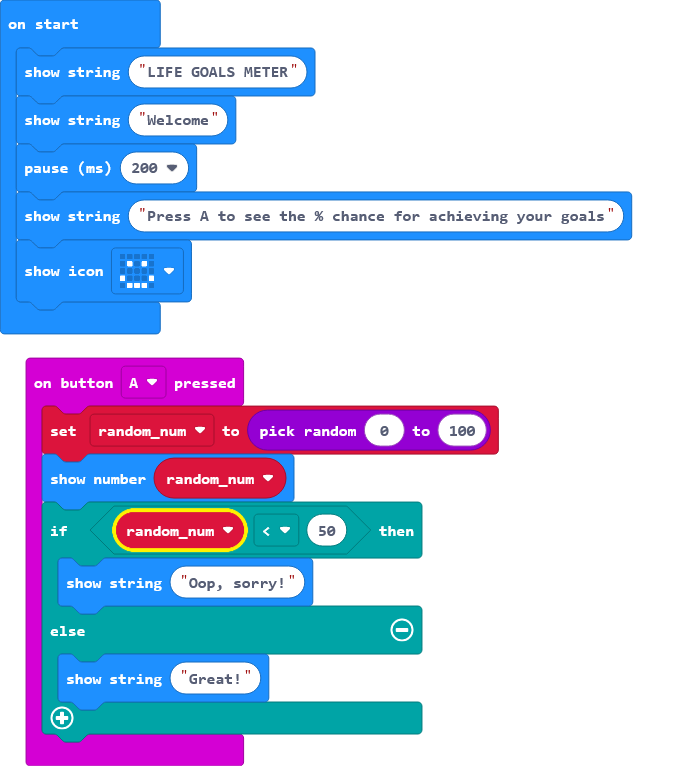
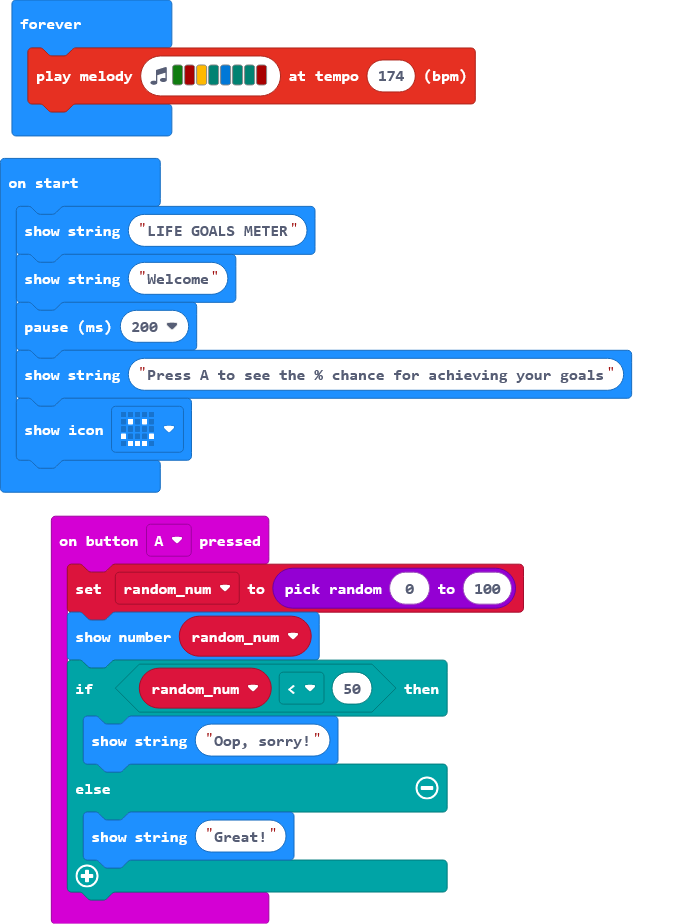
added music

diff --git a/main.ts b/main.ts
@@ -1,4 +1,8 @@
-input.onButtonPressed(Button.A, function () {
+basic.forever(function on_forever() {
+    music.playMelody("G C5 A F E F F C5 ", 174)
+})
+input.onButtonPressed(Button.A, function on_button_pressed_a() {
+    
     random_num = randint(0, 100)
     basic.showNumber(random_num)
     if (random_num < 50) {
@@ -6,6 +10,7 @@ input.onButtonPressed(Button.A, function () {
     } else {
         basic.showString("Great!")
     }
+    
 })
 let random_num = 0
 basic.showString("LIFE GOALS METER")

diff --git a/main.py b/main.py
@@ -1,22 +1,21 @@
-code = 0
-basic.show_string("Welcome.")
+def on_forever():
+    music.play_melody("G C5 A F E F F C5 ", 174)
+basic.forever(on_forever)
+
 def on_button_pressed_a():
-    global code
-    for index in range(4):
-        random_num = randint(1, 5)
-    if random_num == 1:
-        basic.show_icon(IconNames.MEH)
-        code = 12121
-    if random_num == 2:
-        basic.show_icon(IconNames.SURPRISED)
-        code = 2220
-    if random_num == 3:
-        basic.show_icon(IconNames.TRIANGLE)
-        code = 12221
-    if random_num == 4:
-        basic.show_icon(IconNames.SCISSORS)
-        code = 44122
-    if random_num == 5:
-        basic.show_icon(IconNames.CHESSBOARD)
-        code = 23232
+    global random_num
+    random_num = randint(0, 100)
+    basic.show_number(random_num)
+    if random_num < 50:
+        basic.show_string("Oop, sorry!")
+    else:
+        basic.show_string("Great!")
 input.on_button_pressed(Button.A, on_button_pressed_a)
+
+random_num = 0
+basic.show_string("LIFE GOALS METER")
+basic.show_string("Welcome")
+basic.pause(200)
+basic.show_string("Press A to see the % chance for achieving your goals")
+basic.show_icon(IconNames.HAPPY)
+
